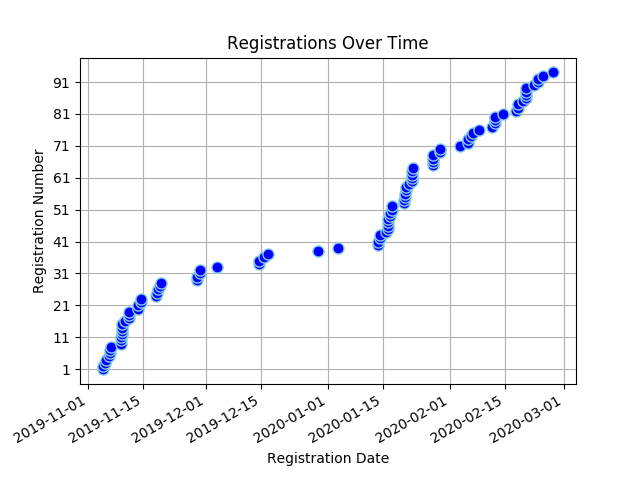
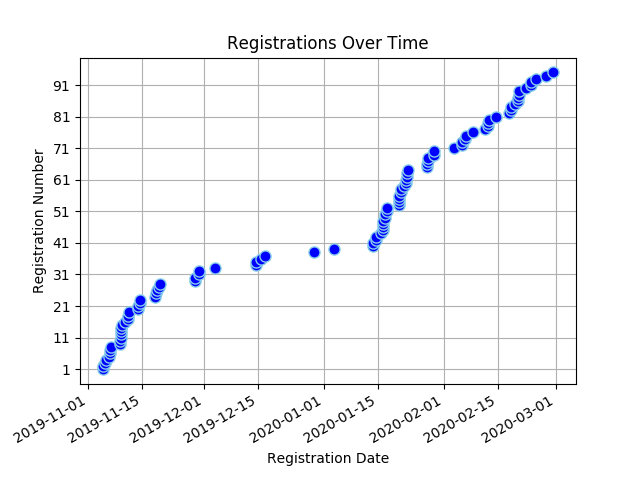
Registree stats backup on Sat Feb 29 12:42:05 SAST 2020

diff --git a/content/registrees/_index.md b/content/registrees/_index.md
@@ -3,9 +3,9 @@ title: Registration Stats
 draft: false
 ---
 
-<ul><li><strong>Number of Registrees</strong>: 94</li>
+<ul><li><strong>Number of Registrees</strong>: 95</li>
 
-<li><strong>Number of Clubs</strong>: 44</li>
+<li><strong>Number of Clubs</strong>: 45</li>
 
 <li><strong>Club With Most Attendees</strong>: Cape Of Good Hope (12 registrees)</li>
 </ul><h2>Registrees</h2>
@@ -30,6 +30,6 @@ draft: false
         </tr>
     </thead>
     <tbody>
-<tr><td>Linda Anderson</td><td>George</td></tr><tr><td>Valencia Beukes</td><td>Kuilsriver</td></tr><tr><td>Lyn Botha</td><td>Cowies Hill</td></tr><tr><td>Annette Bothma</td><td>Fish Hoek</td></tr><tr><td>Jose Braga Borges</td><td>Malmesbury</td></tr><tr><td>Nkandu Chapeshamano</td><td>Rustenburg</td></tr><tr><td>Lynnette Virginia Christians</td><td>Cape Of Good Hope</td></tr><tr><td>Sharon Cottle</td><td>Groote Schuur</td></tr><tr><td>Ivan Du Plooy</td><td>Krugersdorp</td></tr><tr><td>Peggy Du Plooy</td><td>Krugersdorp</td></tr><tr><td>Desiree Du Toit</td><td>Ramsgate</td></tr><tr><td>Charles Flanagan</td><td>Tokai</td></tr><tr><td>Julie Flanagan</td><td>Tokai</td></tr><tr><td>Allison Georges</td><td>Cape Of Good Hope</td></tr><tr><td>Valerie Graham</td><td>Nelspruit</td></tr><tr><td>Michael Graham</td><td>Nelspruit</td></tr><tr><td>Barbara Haywood</td><td>Eden</td></tr><tr><td>Wendy Higgins</td><td>Wilro Park</td></tr><tr><td>Trevor Hobbs</td><td>North Durban</td></tr><tr><td>Avril Hobbs</td><td>North Durban</td></tr><tr><td>Jacqui Hocking</td><td>Midrand</td></tr><tr><td>Cliff Hocking</td><td>Midrand</td></tr><tr><td>Akinyemi Ismaila Tunde</td><td>Alberton</td></tr><tr><td>Dawid Jacobs</td><td>Durbanville</td></tr><tr><td>Jean Jacobs</td><td>Mitchells Plain</td></tr><tr><td>Brenda Joshua</td><td>Cape Of Good Hope</td></tr><tr><td>Marco Joubert</td><td>Tygerberg Hills</td></tr><tr><td>Charlotte Jubelin</td><td>Cape Of Good Hope</td></tr><tr><td>Pascal Kabangu</td><td>Cape Of Good Hope</td></tr><tr><td>Zwaai Krüger</td><td>Sedgefield</td></tr><tr><td>Bevil Lakay</td><td>Mitchells Plain</td></tr><tr><td>Paula Lang</td><td>Gordons Bay</td></tr><tr><td>James Malcolm Lang</td><td>Gordons Bay</td></tr><tr><td>Heather Lee</td><td>Cape Of Good Hope</td></tr><tr><td>Darrol Lee</td><td>Cape Of Good Hope</td></tr><tr><td>Tony Marron</td><td>Kingsburgh</td></tr><tr><td>Nick Maré</td><td>Benoni Lakes</td></tr><tr><td>Beaulieu Maré</td><td>Benoni Lakes</td></tr><tr><td>Lance Maytham</td><td>Bredasdorp</td></tr><tr><td>Mark Meltzer</td><td>The Wilds</td></tr><tr><td>Roy Michas</td><td>Midrand</td></tr><tr><td>Dawn Michas</td><td>Midrand</td></tr><tr><td>Patrick Mills</td><td>Centurion</td></tr><tr><td>Bernice Mills</td><td>Centurion</td></tr><tr><td>Brian Moses</td><td>Cape Of Good Hope</td></tr><tr><td>Alain Moulounda</td><td>Cape Of Good Hope</td></tr><tr><td>Tillie Nel</td><td>Eden</td></tr><tr><td>Pieter Nel</td><td>George</td></tr><tr><td>Michael Newlands</td><td>Port Alfred</td></tr><tr><td>Ramona Nulliah</td><td>Durban Host</td></tr><tr><td>Gary Nulliah</td><td>Durban Host</td></tr><tr><td>William Pfaff</td><td>North Durban</td></tr><tr><td>Jessica Philander</td><td>Cape Of Good Hope</td></tr><tr><td>Gavin Polkinghorne</td><td>Kensington</td></tr><tr><td>Tracey Polkinghorne</td><td>Kensington</td></tr><tr><td>Yvonne  Maureen Poyo</td><td>Cape Of Good Hope</td></tr><tr><td>Karin Preston</td><td>Durban South</td></tr><tr><td>Mark Rossouw</td><td>Tokai</td></tr><tr><td>Sharon Sampie</td><td>Bergvliet</td></tr><tr><td>Pinky Serobatse</td><td>(Partner in Service)</td></tr><tr><td>Susanna Helena Smit</td><td>Centurion</td></tr><tr><td>Herman Smit</td><td>Swellendam</td></tr><tr><td>Berdine Smit</td><td>(Partner in Service)</td></tr><tr><td>Bennie Smith</td><td>Wellington</td></tr><tr><td>Rochelle Smith</td><td>Cape Of Good Hope</td></tr><tr><td>Jeff Smith</td><td>Port Shepstone</td></tr><tr><td>Pierre Theron</td><td>Midrand</td></tr><tr><td>Moira Theron</td><td>Midrand</td></tr><tr><td>Alex Tshikala</td><td>Athlone</td></tr><tr><td>Alistair Tuckett</td><td>Roodepoort Clearwater Cyber</td></tr><tr><td>Gail Tuckett</td><td>Roodepoort Clearwater Cyber</td></tr><tr><td>Rowan Tuckett</td><td>Roodepoort Clearwater Cyber</td></tr><tr><td>Neville Van Rensburg</td><td>Moorreesburg</td></tr><tr><td>Jeannie Van Wulven</td><td>Tygerberg Hills</td></tr><tr><td>Yolandi Van der Schyf</td><td>Midrand</td></tr><tr><td>Keith Weston</td><td>Scottburgh</td></tr><tr><td>Barbara Weston</td><td>Scottburgh</td></tr><tr><td>Joyce Wilcocks</td><td>Pretoria Jakaranda</td></tr><tr><td>Richard Williams</td><td>(Partner in Service)</td></tr><tr><td>Owolabi Williams Monzur</td><td>Badagry</td></tr><tr><td>Geila Wills</td><td>Cape Town</td></tr><tr><td>Patricia Wilson</td><td>Kingsburgh</td></tr><tr><td>Rocky Wright</td><td>Table View</td></tr><tr><td>Judy Young</td><td>Durbanville</td></tr><tr><td>Sydney van Heerden</td><td>Wilro Park</td></tr><tr><td>Sandy van Heerden</td><td>Wilro Park</td></tr><tr><td>Deon van Wulven</td><td>Tygerberg Hills</td></tr><tr><td>Janine van Wulven</td><td>Tygerberg Hills</td></tr><tr><td>Lindie van Wyk</td><td>Pretoria Jakaranda</td></tr><tr><td>Vicki van Wyk</td><td>North Durban</td></tr><tr><td>Kim van Wyk</td><td>North Durban</td></tr><tr><td>Patricia van Wyk</td><td>Pretoria Jakaranda</td></tr><tr><td>Willie van Wyk</td><td>Midrand</td></tr><tr><td>Martha Maria van der Merwe</td><td>Malmesbury</td></tr>
+<tr><td>Linda Anderson</td><td>George</td></tr><tr><td>Valencia Beukes</td><td>Kuilsriver</td></tr><tr><td>Lyn Botha</td><td>Cowies Hill</td></tr><tr><td>Annette Bothma</td><td>Fish Hoek</td></tr><tr><td>Jose Braga Borges</td><td>Malmesbury</td></tr><tr><td>Nkandu Chapeshamano</td><td>Rustenburg</td></tr><tr><td>Lynnette Virginia Christians</td><td>Cape Of Good Hope</td></tr><tr><td>Sharon Cottle</td><td>Groote Schuur</td></tr><tr><td>Ivan Du Plooy</td><td>Krugersdorp</td></tr><tr><td>Peggy Du Plooy</td><td>Krugersdorp</td></tr><tr><td>Desiree Du Toit</td><td>Ramsgate</td></tr><tr><td>Charles Flanagan</td><td>Tokai</td></tr><tr><td>Julie Flanagan</td><td>Tokai</td></tr><tr><td>Allison Georges</td><td>Cape Of Good Hope</td></tr><tr><td>Valerie Graham</td><td>Nelspruit</td></tr><tr><td>Michael Graham</td><td>Nelspruit</td></tr><tr><td>Barbara Haywood</td><td>Eden</td></tr><tr><td>Wendy Higgins</td><td>Wilro Park</td></tr><tr><td>Trevor Hobbs</td><td>North Durban</td></tr><tr><td>Avril Hobbs</td><td>North Durban</td></tr><tr><td>Jacqui Hocking</td><td>Midrand</td></tr><tr><td>Cliff Hocking</td><td>Midrand</td></tr><tr><td>Leslie Human</td><td>East London Port Rex</td></tr><tr><td>Akinyemi Ismaila Tunde</td><td>Alberton</td></tr><tr><td>Dawid Jacobs</td><td>Durbanville</td></tr><tr><td>Jean Jacobs</td><td>Mitchells Plain</td></tr><tr><td>Brenda Joshua</td><td>Cape Of Good Hope</td></tr><tr><td>Marco Joubert</td><td>Tygerberg Hills</td></tr><tr><td>Charlotte Jubelin</td><td>Cape Of Good Hope</td></tr><tr><td>Pascal Kabangu</td><td>Cape Of Good Hope</td></tr><tr><td>Zwaai Krüger</td><td>Sedgefield</td></tr><tr><td>Bevil Lakay</td><td>Mitchells Plain</td></tr><tr><td>Paula Lang</td><td>Gordons Bay</td></tr><tr><td>James Malcolm Lang</td><td>Gordons Bay</td></tr><tr><td>Heather Lee</td><td>Cape Of Good Hope</td></tr><tr><td>Darrol Lee</td><td>Cape Of Good Hope</td></tr><tr><td>Tony Marron</td><td>Kingsburgh</td></tr><tr><td>Nick Maré</td><td>Benoni Lakes</td></tr><tr><td>Beaulieu Maré</td><td>Benoni Lakes</td></tr><tr><td>Lance Maytham</td><td>Bredasdorp</td></tr><tr><td>Mark Meltzer</td><td>The Wilds</td></tr><tr><td>Roy Michas</td><td>Midrand</td></tr><tr><td>Dawn Michas</td><td>Midrand</td></tr><tr><td>Patrick Mills</td><td>Centurion</td></tr><tr><td>Bernice Mills</td><td>Centurion</td></tr><tr><td>Brian Moses</td><td>Cape Of Good Hope</td></tr><tr><td>Alain Moulounda</td><td>Cape Of Good Hope</td></tr><tr><td>Tillie Nel</td><td>Eden</td></tr><tr><td>Pieter Nel</td><td>George</td></tr><tr><td>Michael Newlands</td><td>Port Alfred</td></tr><tr><td>Ramona Nulliah</td><td>Durban Host</td></tr><tr><td>Gary Nulliah</td><td>Durban Host</td></tr><tr><td>William Pfaff</td><td>North Durban</td></tr><tr><td>Jessica Philander</td><td>Cape Of Good Hope</td></tr><tr><td>Gavin Polkinghorne</td><td>Kensington</td></tr><tr><td>Tracey Polkinghorne</td><td>Kensington</td></tr><tr><td>Yvonne  Maureen Poyo</td><td>Cape Of Good Hope</td></tr><tr><td>Karin Preston</td><td>Durban South</td></tr><tr><td>Mark Rossouw</td><td>Tokai</td></tr><tr><td>Sharon Sampie</td><td>Bergvliet</td></tr><tr><td>Pinky Serobatse</td><td>(Partner in Service)</td></tr><tr><td>Susanna Helena Smit</td><td>Centurion</td></tr><tr><td>Herman Smit</td><td>Swellendam</td></tr><tr><td>Berdine Smit</td><td>(Partner in Service)</td></tr><tr><td>Bennie Smith</td><td>Wellington</td></tr><tr><td>Rochelle Smith</td><td>Cape Of Good Hope</td></tr><tr><td>Jeff Smith</td><td>Port Shepstone</td></tr><tr><td>Pierre Theron</td><td>Midrand</td></tr><tr><td>Moira Theron</td><td>Midrand</td></tr><tr><td>Alex Tshikala</td><td>Athlone</td></tr><tr><td>Alistair Tuckett</td><td>Roodepoort Clearwater Cyber</td></tr><tr><td>Gail Tuckett</td><td>Roodepoort Clearwater Cyber</td></tr><tr><td>Rowan Tuckett</td><td>Roodepoort Clearwater Cyber</td></tr><tr><td>Neville Van Rensburg</td><td>Moorreesburg</td></tr><tr><td>Jeannie Van Wulven</td><td>Tygerberg Hills</td></tr><tr><td>Yolandi Van der Schyf</td><td>Midrand</td></tr><tr><td>Keith Weston</td><td>Scottburgh</td></tr><tr><td>Barbara Weston</td><td>Scottburgh</td></tr><tr><td>Joyce Wilcocks</td><td>Pretoria Jakaranda</td></tr><tr><td>Richard Williams</td><td>(Partner in Service)</td></tr><tr><td>Owolabi Williams Monzur</td><td>Badagry</td></tr><tr><td>Geila Wills</td><td>Cape Town</td></tr><tr><td>Patricia Wilson</td><td>Kingsburgh</td></tr><tr><td>Rocky Wright</td><td>Table View</td></tr><tr><td>Judy Young</td><td>Durbanville</td></tr><tr><td>Sydney van Heerden</td><td>Wilro Park</td></tr><tr><td>Sandy van Heerden</td><td>Wilro Park</td></tr><tr><td>Deon van Wulven</td><td>Tygerberg Hills</td></tr><tr><td>Janine van Wulven</td><td>Tygerberg Hills</td></tr><tr><td>Lindie van Wyk</td><td>Pretoria Jakaranda</td></tr><tr><td>Vicki van Wyk</td><td>North Durban</td></tr><tr><td>Kim van Wyk</td><td>North Durban</td></tr><tr><td>Patricia van Wyk</td><td>Pretoria Jakaranda</td></tr><tr><td>Willie van Wyk</td><td>Midrand</td></tr><tr><td>Martha Maria van der Merwe</td><td>Malmesbury</td></tr>
 </tbody>
 </table>

diff --git a/content/full_stats/_index.md b/content/full_stats/_index.md
@@ -11,20 +11,20 @@
 <body>
 <h1 style="color: #000000;">Full Registration Stats</h1>
 <ul><li><strong>Number of Registrees</strong><ul>
-<li><strong>Total</strong>: 94</li>
-<li><strong>Lions</strong>: 91</li>
+<li><strong>Total</strong>: 95</li>
+<li><strong>Lions</strong>: 92</li>
 <li><strong>Partners In Service</strong>: 3</li>
 </ul>
-<li><strong>Number of Clubs</strong>: 44</li>
+<li><strong>Number of Clubs</strong>: 45</li>
 <li><strong>Club With Most Attendees</strong>: Cape Of Good Hope (12 registrees)</li>
-<li><strong>Registrations</strong></li><ul><li><strong>Full</strong>: 93
+<li><strong>Registrations</strong></li><ul><li><strong>Full</strong>: 94
 <li><strong>Banquet</strong>: 1
 <li><strong>Convention</strong>: 0
 <li><strong>Theme</strong>: 1
 </ul><li><strong>Extra Items</strong></li><ul>
 <li><strong>Pins</strong>: 79
 </ul><li><strong>Extra Activities</strong></li><ul>
-<li><strong>MJF Lunch</strong>: 29
+<li><strong>MJF Lunch</strong>: 30
 <li><strong>PDG Breakfast</strong>: 25
 <li><strong>Sharks Board</strong>: 6
 <li><strong>Golf</strong>: 2
@@ -32,9 +32,9 @@
 <li><strong>Service Project</strong>: 21
 <li><strong>Partner Program</strong>: 3
 </ul>
-<li><strong>Total Owed:</strong> R124800.00</li>
-<li><strong>Paid:</strong> R56140.00</li>
-<li><strong>Still Owed:</strong> R68660.00</li>
+<li><strong>Total Owed:</strong> R126085.00</li>
+<li><strong>Paid:</strong> R58220.00</li>
+<li><strong>Still Owed:</strong> R67865.00</li>
 <li><strong>Dietary Requirements</strong></li><ul>
 <li>Allergic to Shellfish</li>
 <li>Allergic to cheese and cream</li>
@@ -200,25 +200,25 @@ StillOwed
 </tr>
 
     
-<tr>
+<tr style="background-color: lightgreen">
 <td>24</td>
 <td>Charles Flanagan</td>
 <td>Tokai</td>
 <td>ZC Charlie Flanagan</td>
 <td>1340.00</td>
-<td>300.00</td>
-<td>1040.00</td>
+<td>1340.00</td>
+<td>0.00</td>
 </tr>
 
     
-<tr>
+<tr style="background-color: lightgreen">
 <td>25</td>
 <td>Julie Flanagan</td>
 <td>Tokai</td>
 <td>Lion Jules Flanagan</td>
 <td>1340.00</td>
-<td>300.00</td>
-<td>1040.00</td>
+<td>1340.00</td>
+<td>0.00</td>
 </tr>
 
     
@@ -318,6 +318,17 @@ StillOwed
 <td>1285.00</td>
 <td>1285.00</td>
 <td>0.00</td>
+</tr>
+
+    
+<tr style="background-color: yellow">
+<td>107</td>
+<td>Leslie Human</td>
+<td>East London Port Rex</td>
+<td>FVDGE Leslie Human </td>
+<td>1285.00</td>
+<td>0.00</td>
+<td>1285.00</td>
 </tr>
 
     
